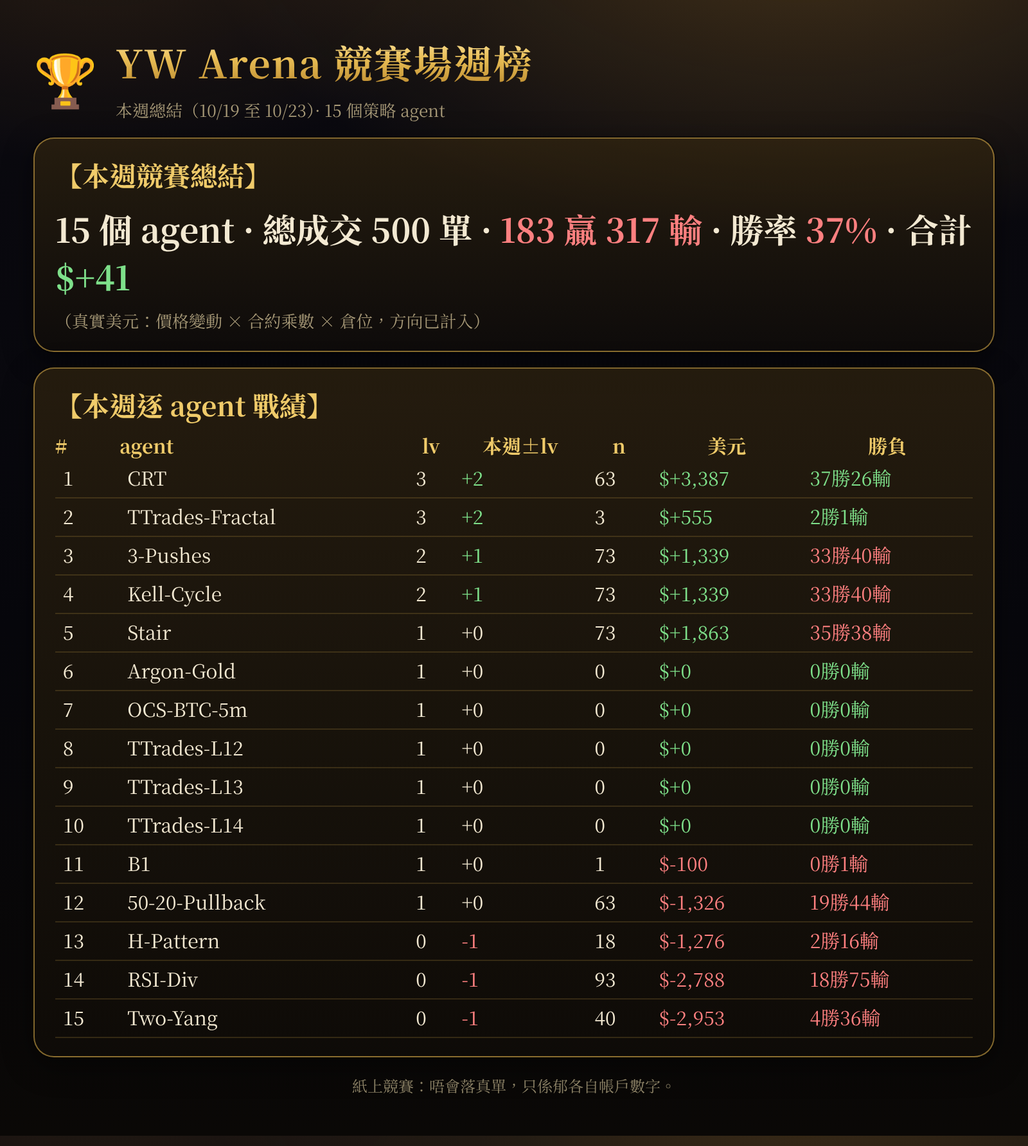
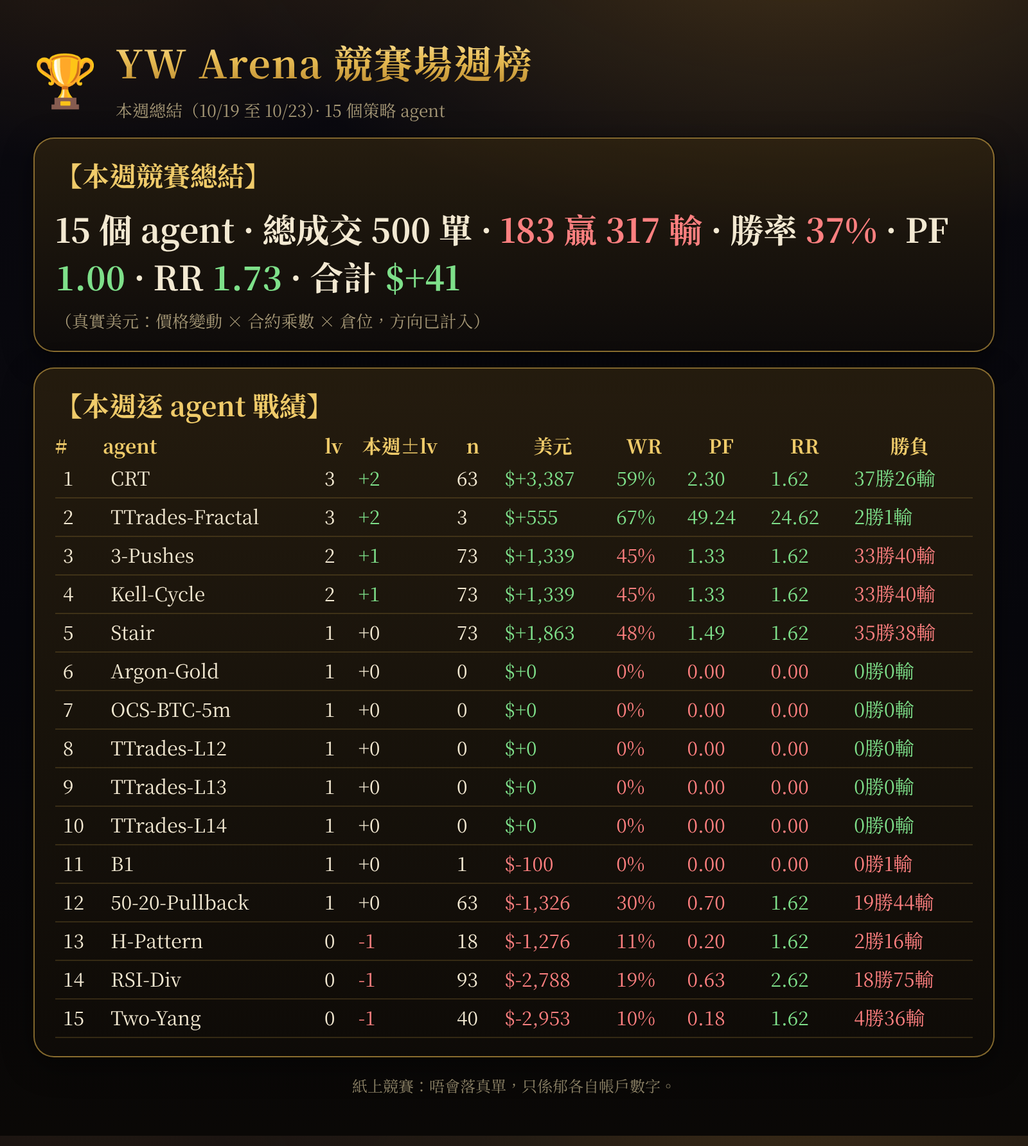
feat(weekly): show WR, PF and RR on every card
The weekly card now scores the week on the three numbers that actually
describe a book: win rate, profit factor and risk-reward, in the summary
box, in the per-instrument breakdown, in every day's line and in the
arena's per-agent table. The daily arena digest gets the risk-reward
column too, and the settlement already computes it, so it was measured
and then thrown away.

The profit factor and the risk-reward are taken from the R-multiples when
the record carries one and from the dollar result when it does not, the
same scale the daily settlement uses.

diff --git a/automation/reports/weekly/weekly_live_2026-10-19.html b/automation/reports/weekly/weekly_live_2026-10-19.html
@@ -46,7 +46,9 @@ h2 { font-size: 21px; color: #f0cb6a; }
 
 <div class="card">
   <h2 style="margin-bottom:8px">【本週總結】<span class="pill">88 單</span>
-    <span class="pill down">勝率 35%</span>
+    <span class="pill down">WR 35%</span>
+    <span class="pill down">PF 0.89</span>
+    <span class="pill up">RR 1.63</span>
     <span class="pill down">合計 $-2,422</span></h2>
   <div class="row" style="margin-top:6px">
     <div style="font-size:30px">🏆</div>
@@ -54,7 +56,7 @@ h2 { font-size: 21px; color: #f0cb6a; }
       <div class="big" style="font-size:24px">本週 88 單（做多 40，做空 48）|
         <b class="down">31 贏 57 輸（已無視 5 單無成交）</b>| 勝率 <b class="down">35%</b> |
         合計 <b class="down">$-2,422</b></div>
-      <div class="legend">🎯 勝率　💰 合計真實美元（已計合約乘數 × 倉位）</div>
+      <div class="legend">🎯 WR 勝率　📊 PF 盈虧比　⚖ RR 賺蝕比　💰 合計真實美元（已計合約乘數 × 倉位）</div>
     </div>
   </div>
 </div>
@@ -62,13 +64,13 @@ h2 { font-size: 21px; color: #f0cb6a; }
 <div class="card">
   <h2 style="margin-bottom:6px">【分標的拆解】</h2>
   <div class="legend">（點數唔可以跨標的相加，所以主軸係真實美元）</div>
-  <span class="tr"><b>MGC=F</b> · 21 單 · WR 48% · 10勝11負 · +43 點 · <b class="up">$+593</b></span><span class="tr"><b>MES=F</b> · 13 單 · WR 38% · 5勝8負 · +1 點 · <b class="up">$+57</b></span><span class="tr"><b>BTC-USD</b> · 17 單 · WR 35% · 6勝11負 · -340 點 · <b class="down">$-151</b></span><span class="tr"><b>MNQ=F</b> · 15 單 · WR 33% · 5勝10負 · -148 點 · <b class="down">$-225</b></span><span class="tr"><b>M2K=F</b> · 14 單 · WR 29% · 4勝10負 · -9 點 · <b class="down">$-428</b></span><span class="tr"><b>GC=F</b> · 8 單 · WR 12% · 1勝7負 · -45 點 · <b class="down">$-2,269</b></span>
+  <span class="tr"><b>MGC=F</b> · 21單 · WR 48% · PF 1.71 · RR 1.88 · 10勝11負 · +43點 · <b class="up">$+593</b></span><span class="tr"><b>MES=F</b> · 13單 · WR 38% · PF 1.12 · RR 1.80 · 5勝8負 · +1點 · <b class="up">$+57</b></span><span class="tr"><b>BTC-USD</b> · 17單 · WR 35% · PF 0.90 · RR 1.65 · 6勝11負 · -340點 · <b class="down">$-151</b></span><span class="tr"><b>MNQ=F</b> · 15單 · WR 33% · PF 0.77 · RR 1.54 · 5勝10負 · -148點 · <b class="down">$-225</b></span><span class="tr"><b>M2K=F</b> · 14單 · WR 29% · PF 0.35 · RR 0.88 · 4勝10負 · -9點 · <b class="down">$-428</b></span><span class="tr"><b>GC=F</b> · 8單 · WR 12% · PF 0.24 · RR 1.65 · 1勝7負 · -45點 · <b class="down">$-2,269</b></span>
 </div>
 
 <div class="card">
   <h2 style="margin-bottom:6px">【每日交易細分】</h2>
   <div class="legend">（只列有成交嘅單）</div>
-  <div class="day"><h3>📅 10/19（一） <span class="up">勝率 55% ($+834)</span></h3><span class="tr"><b>#1 </b><span class="long">做多 82,564.8</span> 🎯 T2 <b class="up">+213點</b> <span class="up">$+213</span></span><span class="tr"><b>#2 </b><span class="short">做空 4,195.1</span> ❌ SL <b class="down">-7點</b> <span class="down">$-74</span></span><span class="tr"><b>#3 </b><span class="short">做空 2,755.9</span> 🎯 T2 <b class="up">+3點</b> <span class="up">$+15</span></span><span class="tr"><b>#4 </b><span class="long">做多 82,709.3</span> 🎯 T2 <b class="up">+180點</b> <span class="up">$+180</span></span><span class="tr"><b>#5 </b><span class="short">做空 29,784.5</span> 🎯 T2 <b class="up">+52點</b> <span class="up">$+104</span></span><span class="tr"><b>#6 </b><span class="short">做空 29,755</span> 🎯 T2 <b class="up">+70點</b> <span class="up">$+140</span></span><span class="tr"><b>#7 </b><span class="short">做空 7,749.2</span> 🎯 T2 <b class="up">+12點</b> <span class="up">$+58</span></span><span class="tr"><b>#8 </b><span class="short">做空 2,751</span> 🎯 T2 <b class="up">+6點</b> <span class="up">$+28</span></span><span class="tr"><b>#9 </b><span class="long">做多 82,154.8</span> 🎯 T2 <b class="up">+409點</b> <span class="up">$+409</span></span><span class="tr"><b>#10 </b><span class="short">做空 2,741</span> ❌ SL <b class="down">-6點</b> <span class="down">$-28</span></span><span class="tr"><b>#11 </b><span class="short">做空 7,736.5</span> ❌ SL <b class="down">-9點</b> <span class="down">$-47</span></span><span class="tr"><b>#12 </b><span class="short">做空 81,926.1</span> 🎯 T2 <b class="up">+239點</b> <span class="up">$+239</span></span><span class="tr"><b>#13 </b><span class="short">做空 2,744.2</span> 🎯 T2 <b class="up">+5點</b> <span class="up">$+27</span></span><span class="tr"><b>#14 </b><span class="short">做空 7,742.8</span> ❌ SL <b class="down">-8點</b> <span class="down">$-38</span></span><span class="tr"><b>#15 </b><span class="short">做空 29,779.2</span> ❌ SL <b class="down">-49點</b> <span class="down">$-98</span></span><span class="tr"><b>#16 </b><span class="short">做空 81,840</span> ❌ SL <b class="down">-146點</b> <span class="down">$-146</span></span><span class="tr"><b>#17 </b><span class="short">做空 7,740.2</span> ❌ SL <b class="down">-6點</b> <span class="down">$-29</span></span><span class="tr"><b>#18 </b><span class="short">做空 4,161.7</span> 🎯 T2 <b class="up">+5點</b> <span class="up">$+54</span></span><span class="tr"><b>#19 </b><span class="long">做多 81,963.2</span> ❌ SL <b class="down">-108點</b> <span class="down">$-108</span></span><span class="tr"><b>#20 </b><span class="long">做多 2,744.2</span> ❌ SL <b class="down">-2點</b> <span class="down">$-9</span></span><span class="tr"><b>#21 </b><span class="short">做空 29,748.8</span> 🎯 T2 <b class="up">+89點</b> <span class="up">$+177</span></span><span class="tr"><b>#22 </b><span class="short">做空 81,701.1</span> ❌ SL <b class="down">-233點</b> <span class="down">$-233</span></span></div><div class="day"><h3>📅 10/20（二） <span class="down">勝率 13% ($-2,672)</span></h3><span class="tr"><b>#1 </b><span class="long">做多 29,633.8</span> ❌ SL <b class="down">-38點</b> <span class="down">$-77</span></span><span class="tr"><b>#2 </b><span class="long">做多 7,738</span> ❌ SL <b class="down">-6點</b> <span class="down">$-32</span></span><span class="tr"><b>#3 </b><span class="long">做多 29,629.8</span> ❌ SL <b class="down">-51點</b> <span class="down">$-103</span></span><span class="tr"><b>#4 </b><span class="long">做多 2,745.1</span> ❌ SL <b class="down">-2點</b> <span class="down">$-11</span></span><span class="tr"><b>#5 </b><span class="short">做空 4,146.3</span> ❌ SL <b class="down">-8點</b> <span class="down">$-77</span></span><span class="tr"><b>#6 </b><span class="long">做多 81,602.5</span> ❌ SL <b class="down">-138點</b> <span class="down">$-138</span></span><span class="tr"><b>#7 </b><span class="short">做空 7,742.2</span> 🎯 T2 <b class="up">+12點</b> <span class="up">$+58</span></span><span class="tr"><b>#8 </b><span class="short">做空 4,132.8</span> ❌ SL <b class="down">-6點</b> <span class="down">$-59</span></span><span class="tr"><b>#9 </b><span class="long">做多 81,426.8</span> ❌ SL <b class="down">-143點</b> <span class="down">$-143</span></span><span class="tr"><b>#10 </b><span class="short">做空 4,134</span> ❌ SL <b class="down">-5點</b> <span class="down">$-54</span></span><span class="tr"><b>#11 </b><span class="short">做空 4,134.1</span> ❌ SL <b class="down">-5點</b> <span class="down">$-523</span></span><span class="tr"><b>#12 </b><span class="short">做空 29,521.8</span> ❌ SL <b class="down">-46點</b> <span class="down">$-93</span></span><span class="tr"><b>#13 </b><span class="long">做多 81,495.8</span> ❌ SL <b class="down">-206點</b> <span class="down">$-206</span></span><span class="tr"><b>#14 </b><span class="short">做空 4,141.8</span> ❌ SL <b class="down">-11點</b> <span class="down">$-111</span></span><span class="tr"><b>#15 </b><span class="short">做空 4,141.7</span> ❌ SL <b class="down">-11點</b> <span class="down">$-1,085</span></span><span class="tr"><b>#16 </b><span class="long">做多 7,773</span> ❌ SL <b class="down">-14點</b> <span class="down">$-70</span></span><span class="tr"><b>#17 </b><span class="long">做多 7,764</span> ❌ SL <b class="down">-9點</b> <span class="down">$-46</span></span><span class="tr"><b>#18 </b><span class="short">做空 29,767.5</span> ❌ SL <b class="down">-50點</b> <span class="down">$-100</span></span><span class="tr"><b>#19 </b><span class="short">做空 4,142.1</span> ❌ SL <b class="down">-4點</b> <span class="down">$-42</span></span><span class="tr"><b>#20 </b><span class="short">做空 4,142.1</span> ❌ SL <b class="down">-4點</b> <span class="down">$-403</span></span><span class="tr"><b>#21 </b><span class="long">做多 83,053</span> ❌ SL <b class="down">-134點</b> <span class="down">$-134</span></span><span class="tr"><b>#22 </b><span class="short">做空 4,138.5</span> 🎯 T2 <b class="up">+8點</b> <span class="up">$+75</span></span><span class="tr"><b>#23 </b><span class="short">做空 4,138.7</span> 🎯 T2 <b class="up">+7點</b> <span class="up">$+701</span></span><span class="tr"></span></div><div class="day"><h3>📅 10/21（三） <span class="down">勝率 29% ($-650)</span></h3><span class="tr"><b>#1 </b><span class="long">做多 7,795.2</span> 🎯 T2 <b class="up">+16點</b> <span class="up">$+79</span></span><span class="tr"><b>#2 </b><span class="long">做多 4,150.6</span> ❌ SL <b class="down">-7點</b> <span class="down">$-68</span></span><span class="tr"><b>#3 </b><span class="long">做多 4,150.3</span> ❌ SL <b class="down">-7點</b> <span class="down">$-658</span></span><span class="tr"><b>#4 </b><span class="short">做空 84,462.1</span> ❌ SL <b class="down">-145點</b> <span class="down">$-145</span></span><span class="tr"><b>#5 </b><span class="short">做空 84,760.8</span> 🎯 T2 <b class="up">+199點</b> <span class="up">$+199</span></span><span class="tr"><b>#6 </b><span class="long">做多 4,154.4</span> ❌ SL <b class="down">-5點</b> <span class="down">$-46</span></span><span class="tr"><b>#7 </b><span class="long">做多 2,782</span> ❌ SL <b class="down">-2點</b> <span class="down">$-11</span></span><span class="tr"></span></div><div class="day"><h3>📅 10/22（四） <span class="down">勝率 38% ($+18)</span></h3><span class="tr"><b>#1 </b><span class="long">做多 2,780.2</span> ❌ SL <b class="down">-2點</b> <span class="down">$-100</span></span><span class="tr"><b>#2 </b><span class="short">做空 4,116.3</span> 🎯 T2 <b class="up">+20點</b> <span class="up">$+162</span></span><span class="tr"><b>#3 </b><span class="short">做空 2,769.3</span> ❌ SL <b class="down">-3點</b> <span class="down">$-100</span></span><span class="tr"><b>#4 </b><span class="short">做空 4,102.9</span> 🎯 T2 <b class="up">+11點</b> <span class="up">$+162</span></span><span class="tr"><b>#5 </b><span class="short">做空 29,522.8</span> 🎯 T2 <b class="up">+62點</b> <span class="up">$+162</span></span><span class="tr"><b>#6 </b><span class="long">做多 81,756.1</span> ❌ SL <b class="down">-137點</b> <span class="down">$-100</span></span><span class="tr"><b>#7 </b><span class="long">做多 4,081.3</span> 🎯 T2 <b class="up">+18點</b> <span class="up">$+162</span></span><span class="tr"><b>#8 </b><span class="long">做多 29,518.2</span> ❌ SL <b class="down">-42點</b> <span class="down">$-100</span></span><span class="tr"><b>#9 </b><span class="long">做多 7,724.8</span> 🎯 T2 <b class="up">+10點</b> <span class="up">$+162</span></span><span class="tr"><b>#10 </b><span class="short">做空 4,067.2</span> ❌ SL <b class="down">-13點</b> <span class="down">$-100</span></span><span class="tr"><b>#11 </b><span class="short">做空 29,224</span> 🎯 T2 <b class="up">+121點</b> <span class="up">$+162</span></span><span class="tr"><b>#12 </b><span class="short">做空 4,061.6</span> 🎯 T2 <b class="up">+12點</b> <span class="up">$+162</span></span><span class="tr"><b>#13 </b><span class="short">做空 7,698.8</span> 🎯 T2 <b class="up">+20點</b> <span class="up">$+162</span></span><span class="tr"><b>#14 </b><span class="short">做空 2,787.3</span> ❌ SL <b class="down">-6點</b> <span class="down">$-100</span></span><span class="tr"><b>#15 </b><span class="long">做多 4,044.6</span> ❌ SL <b class="down">-6點</b> <span class="down">$-100</span></span><span class="tr"><b>#16 </b><span class="long">做多 4,044.7</span> ❌ SL <b class="down">-6點</b> <span class="down">$-100</span></span><span class="tr"><b>#17 </b><span class="long">做多 29,116</span> ❌ SL <b class="down">-65點</b> <span class="down">$-100</span></span><span class="tr"><b>#18 </b><span class="short">做空 4,039.9</span> ❌ SL <b class="down">-4點</b> <span class="down">$-100</span></span><span class="tr"><b>#19 </b><span class="long">做多 2,798.7</span> ❌ SL <b class="down">-2點</b> <span class="down">$-100</span></span><span class="tr"><b>#20 </b><span class="short">做空 4,043.6</span> 🎯 T2 <b class="up">+7點</b> <span class="up">$+162</span></span><span class="tr"><b>#21 </b><span class="long">做多 2,793.8</span> ❌ SL <b class="down">-2點</b> <span class="down">$-100</span></span><span class="tr"><b>#22 </b><span class="short">做空 29,120.2</span> ❌ SL <b class="down">-67點</b> <span class="down">$-100</span></span><span class="tr"><b>#23 </b><span class="long">做多 4,036.1</span> 🎯 T2 <b class="up">+10點</b> <span class="up">$+162</span></span><span class="tr"><b>#24 </b><span class="long">做多 4,041.3</span> ❌ SL <b class="down">-6點</b> <span class="down">$-100</span></span><span class="tr"><b>#25 </b><span class="long">做多 7,706.8</span> ❌ SL <b class="down">-11點</b> <span class="down">$-100</span></span><span class="tr"><b>#26 </b><span class="short">做空 81,286.1</span> ❌ SL <b class="down">-251點</b> <span class="down">$-100</span></span></div><div class="day"><h3>📅 10/23（五） <span class="">勝率 40% ($+47)</span></h3><span class="tr"><b>#1 </b><span class="long">做多 4,024.3</span> 🎯 T2 <b class="up">+8點</b> <span class="up">$+162</span></span><span class="tr"><b>#2 </b><span class="long">做多 7,698.8</span> ❌ SL <b class="down">-6點</b> <span class="down">$-100</span></span><span class="tr"><b>#3 </b><span class="long">做多 2,792.6</span> ❌ SL <b class="down">-2點</b> <span class="down">$-100</span></span><span class="tr"><b>#4 </b><span class="short">做空 81,754.1</span> 🎯 T2 <b class="up">+204點</b> <span class="up">$+162</span></span><span class="tr"><b>#5 </b><span class="long">做多 4,029</span> 🎯 T2 <b class="up">+14點</b> <span class="up">$+162</span></span><span class="tr"><b>#6 </b><span class="long">做多 81,494.7</span> ❌ SL <b class="down">-143點</b> <span class="down">$-100</span></span><span class="tr"><b>#7 </b><span class="short">做空 2,779.3</span> 🎯 T2 <b class="up">+6點</b> <span class="up">$+162</span></span><span class="tr"><b>#8 </b><span class="short">做空 29,069.8</span> ❌ SL <b class="down">-53點</b> <span class="down">$-100</span></span><span class="tr"><b>#9 </b><span class="long">做多 4,039.6</span> ❌ SL <b class="down">-8點</b> <span class="down">$-100</span></span><span class="tr"><b>#10 </b><span class="long">做多 29,280</span> ❌ SL <b class="down">-80點</b> <span class="down">$-100</span></span></div>
+  <div class="day"><h3>📅 10/19（一） <span class="up">WR 55%</span> <span class="up">PF 2.03</span> <span class="up">RR 1.69</span> <span class="up">$+834</span></h3><span class="tr"><b>#1 </b><span class="long">做多 82,564.8</span> 🎯 T2 <b class="up">+213點</b> <span class="up">$+213</span></span><span class="tr"><b>#2 </b><span class="short">做空 4,195.1</span> ❌ SL <b class="down">-7點</b> <span class="down">$-74</span></span><span class="tr"><b>#3 </b><span class="short">做空 2,755.9</span> 🎯 T2 <b class="up">+3點</b> <span class="up">$+15</span></span><span class="tr"><b>#4 </b><span class="long">做多 82,709.3</span> 🎯 T2 <b class="up">+180點</b> <span class="up">$+180</span></span><span class="tr"><b>#5 </b><span class="short">做空 29,784.5</span> 🎯 T2 <b class="up">+52點</b> <span class="up">$+104</span></span><span class="tr"><b>#6 </b><span class="short">做空 29,755</span> 🎯 T2 <b class="up">+70點</b> <span class="up">$+140</span></span><span class="tr"><b>#7 </b><span class="short">做空 7,749.2</span> 🎯 T2 <b class="up">+12點</b> <span class="up">$+58</span></span><span class="tr"><b>#8 </b><span class="short">做空 2,751</span> 🎯 T2 <b class="up">+6點</b> <span class="up">$+28</span></span><span class="tr"><b>#9 </b><span class="long">做多 82,154.8</span> 🎯 T2 <b class="up">+409點</b> <span class="up">$+409</span></span><span class="tr"><b>#10 </b><span class="short">做空 2,741</span> ❌ SL <b class="down">-6點</b> <span class="down">$-28</span></span><span class="tr"><b>#11 </b><span class="short">做空 7,736.5</span> ❌ SL <b class="down">-9點</b> <span class="down">$-47</span></span><span class="tr"><b>#12 </b><span class="short">做空 81,926.1</span> 🎯 T2 <b class="up">+239點</b> <span class="up">$+239</span></span><span class="tr"><b>#13 </b><span class="short">做空 2,744.2</span> 🎯 T2 <b class="up">+5點</b> <span class="up">$+27</span></span><span class="tr"><b>#14 </b><span class="short">做空 7,742.8</span> ❌ SL <b class="down">-8點</b> <span class="down">$-38</span></span><span class="tr"><b>#15 </b><span class="short">做空 29,779.2</span> ❌ SL <b class="down">-49點</b> <span class="down">$-98</span></span><span class="tr"><b>#16 </b><span class="short">做空 81,840</span> ❌ SL <b class="down">-146點</b> <span class="down">$-146</span></span><span class="tr"><b>#17 </b><span class="short">做空 7,740.2</span> ❌ SL <b class="down">-6點</b> <span class="down">$-29</span></span><span class="tr"><b>#18 </b><span class="short">做空 4,161.7</span> 🎯 T2 <b class="up">+5點</b> <span class="up">$+54</span></span><span class="tr"><b>#19 </b><span class="long">做多 81,963.2</span> ❌ SL <b class="down">-108點</b> <span class="down">$-108</span></span><span class="tr"><b>#20 </b><span class="long">做多 2,744.2</span> ❌ SL <b class="down">-2點</b> <span class="down">$-9</span></span><span class="tr"><b>#21 </b><span class="short">做空 29,748.8</span> 🎯 T2 <b class="up">+89點</b> <span class="up">$+177</span></span><span class="tr"><b>#22 </b><span class="short">做空 81,701.1</span> ❌ SL <b class="down">-233點</b> <span class="down">$-233</span></span></div><div class="day"><h3>📅 10/20（二） <span class="down">WR 13%</span> <span class="down">PF 0.24</span> <span class="up">RR 1.59</span> <span class="down">$-2,672</span></h3><span class="tr"><b>#1 </b><span class="long">做多 29,633.8</span> ❌ SL <b class="down">-38點</b> <span class="down">$-77</span></span><span class="tr"><b>#2 </b><span class="long">做多 7,738</span> ❌ SL <b class="down">-6點</b> <span class="down">$-32</span></span><span class="tr"><b>#3 </b><span class="long">做多 29,629.8</span> ❌ SL <b class="down">-51點</b> <span class="down">$-103</span></span><span class="tr"><b>#4 </b><span class="long">做多 2,745.1</span> ❌ SL <b class="down">-2點</b> <span class="down">$-11</span></span><span class="tr"><b>#5 </b><span class="short">做空 4,146.3</span> ❌ SL <b class="down">-8點</b> <span class="down">$-77</span></span><span class="tr"><b>#6 </b><span class="long">做多 81,602.5</span> ❌ SL <b class="down">-138點</b> <span class="down">$-138</span></span><span class="tr"><b>#7 </b><span class="short">做空 7,742.2</span> 🎯 T2 <b class="up">+12點</b> <span class="up">$+58</span></span><span class="tr"><b>#8 </b><span class="short">做空 4,132.8</span> ❌ SL <b class="down">-6點</b> <span class="down">$-59</span></span><span class="tr"><b>#9 </b><span class="long">做多 81,426.8</span> ❌ SL <b class="down">-143點</b> <span class="down">$-143</span></span><span class="tr"><b>#10 </b><span class="short">做空 4,134</span> ❌ SL <b class="down">-5點</b> <span class="down">$-54</span></span><span class="tr"><b>#11 </b><span class="short">做空 4,134.1</span> ❌ SL <b class="down">-5點</b> <span class="down">$-523</span></span><span class="tr"><b>#12 </b><span class="short">做空 29,521.8</span> ❌ SL <b class="down">-46點</b> <span class="down">$-93</span></span><span class="tr"><b>#13 </b><span class="long">做多 81,495.8</span> ❌ SL <b class="down">-206點</b> <span class="down">$-206</span></span><span class="tr"><b>#14 </b><span class="short">做空 4,141.8</span> ❌ SL <b class="down">-11點</b> <span class="down">$-111</span></span><span class="tr"><b>#15 </b><span class="short">做空 4,141.7</span> ❌ SL <b class="down">-11點</b> <span class="down">$-1,085</span></span><span class="tr"><b>#16 </b><span class="long">做多 7,773</span> ❌ SL <b class="down">-14點</b> <span class="down">$-70</span></span><span class="tr"><b>#17 </b><span class="long">做多 7,764</span> ❌ SL <b class="down">-9點</b> <span class="down">$-46</span></span><span class="tr"><b>#18 </b><span class="short">做空 29,767.5</span> ❌ SL <b class="down">-50點</b> <span class="down">$-100</span></span><span class="tr"><b>#19 </b><span class="short">做空 4,142.1</span> ❌ SL <b class="down">-4點</b> <span class="down">$-42</span></span><span class="tr"><b>#20 </b><span class="short">做空 4,142.1</span> ❌ SL <b class="down">-4點</b> <span class="down">$-403</span></span><span class="tr"><b>#21 </b><span class="long">做多 83,053</span> ❌ SL <b class="down">-134點</b> <span class="down">$-134</span></span><span class="tr"><b>#22 </b><span class="short">做空 4,138.5</span> 🎯 T2 <b class="up">+8點</b> <span class="up">$+75</span></span><span class="tr"><b>#23 </b><span class="short">做空 4,138.7</span> 🎯 T2 <b class="up">+7點</b> <span class="up">$+701</span></span><span class="tr"></span></div><div class="day"><h3>📅 10/21（三） <span class="down">WR 29%</span> <span class="down">PF 0.30</span> <span class="down">RR 0.75</span> <span class="down">$-650</span></h3><span class="tr"><b>#1 </b><span class="long">做多 7,795.2</span> 🎯 T2 <b class="up">+16點</b> <span class="up">$+79</span></span><span class="tr"><b>#2 </b><span class="long">做多 4,150.6</span> ❌ SL <b class="down">-7點</b> <span class="down">$-68</span></span><span class="tr"><b>#3 </b><span class="long">做多 4,150.3</span> ❌ SL <b class="down">-7點</b> <span class="down">$-658</span></span><span class="tr"><b>#4 </b><span class="short">做空 84,462.1</span> ❌ SL <b class="down">-145點</b> <span class="down">$-145</span></span><span class="tr"><b>#5 </b><span class="short">做空 84,760.8</span> 🎯 T2 <b class="up">+199點</b> <span class="up">$+199</span></span><span class="tr"><b>#6 </b><span class="long">做多 4,154.4</span> ❌ SL <b class="down">-5點</b> <span class="down">$-46</span></span><span class="tr"><b>#7 </b><span class="long">做多 2,782</span> ❌ SL <b class="down">-2點</b> <span class="down">$-11</span></span><span class="tr"></span></div><div class="day"><h3>📅 10/22（四） <span class="down">WR 38%</span> <span class="up">PF 1.01</span> <span class="up">RR 1.62</span> <span class="up">$+18</span></h3><span class="tr"><b>#1 </b><span class="long">做多 2,780.2</span> ❌ SL <b class="down">-2點</b> <span class="down">$-100</span></span><span class="tr"><b>#2 </b><span class="short">做空 4,116.3</span> 🎯 T2 <b class="up">+20點</b> <span class="up">$+162</span></span><span class="tr"><b>#3 </b><span class="short">做空 2,769.3</span> ❌ SL <b class="down">-3點</b> <span class="down">$-100</span></span><span class="tr"><b>#4 </b><span class="short">做空 4,102.9</span> 🎯 T2 <b class="up">+11點</b> <span class="up">$+162</span></span><span class="tr"><b>#5 </b><span class="short">做空 29,522.8</span> 🎯 T2 <b class="up">+62點</b> <span class="up">$+162</span></span><span class="tr"><b>#6 </b><span class="long">做多 81,756.1</span> ❌ SL <b class="down">-137點</b> <span class="down">$-100</span></span><span class="tr"><b>#7 </b><span class="long">做多 4,081.3</span> 🎯 T2 <b class="up">+18點</b> <span class="up">$+162</span></span><span class="tr"><b>#8 </b><span class="long">做多 29,518.2</span> ❌ SL <b class="down">-42點</b> <span class="down">$-100</span></span><span class="tr"><b>#9 </b><span class="long">做多 7,724.8</span> 🎯 T2 <b class="up">+10點</b> <span class="up">$+162</span></span><span class="tr"><b>#10 </b><span class="short">做空 4,067.2</span> ❌ SL <b class="down">-13點</b> <span class="down">$-100</span></span><span class="tr"><b>#11 </b><span class="short">做空 29,224</span> 🎯 T2 <b class="up">+121點</b> <span class="up">$+162</span></span><span class="tr"><b>#12 </b><span class="short">做空 4,061.6</span> 🎯 T2 <b class="up">+12點</b> <span class="up">$+162</span></span><span class="tr"><b>#13 </b><span class="short">做空 7,698.8</span> 🎯 T2 <b class="up">+20點</b> <span class="up">$+162</span></span><span class="tr"><b>#14 </b><span class="short">做空 2,787.3</span> ❌ SL <b class="down">-6點</b> <span class="down">$-100</span></span><span class="tr"><b>#15 </b><span class="long">做多 4,044.6</span> ❌ SL <b class="down">-6點</b> <span class="down">$-100</span></span><span class="tr"><b>#16 </b><span class="long">做多 4,044.7</span> ❌ SL <b class="down">-6點</b> <span class="down">$-100</span></span><span class="tr"><b>#17 </b><span class="long">做多 29,116</span> ❌ SL <b class="down">-65點</b> <span class="down">$-100</span></span><span class="tr"><b>#18 </b><span class="short">做空 4,039.9</span> ❌ SL <b class="down">-4點</b> <span class="down">$-100</span></span><span class="tr"><b>#19 </b><span class="long">做多 2,798.7</span> ❌ SL <b class="down">-2點</b> <span class="down">$-100</span></span><span class="tr"><b>#20 </b><span class="short">做空 4,043.6</span> 🎯 T2 <b class="up">+7點</b> <span class="up">$+162</span></span><span class="tr"><b>#21 </b><span class="long">做多 2,793.8</span> ❌ SL <b class="down">-2點</b> <span class="down">$-100</span></span><span class="tr"><b>#22 </b><span class="short">做空 29,120.2</span> ❌ SL <b class="down">-67點</b> <span class="down">$-100</span></span><span class="tr"><b>#23 </b><span class="long">做多 4,036.1</span> 🎯 T2 <b class="up">+10點</b> <span class="up">$+162</span></span><span class="tr"><b>#24 </b><span class="long">做多 4,041.3</span> ❌ SL <b class="down">-6點</b> <span class="down">$-100</span></span><span class="tr"><b>#25 </b><span class="long">做多 7,706.8</span> ❌ SL <b class="down">-11點</b> <span class="down">$-100</span></span><span class="tr"><b>#26 </b><span class="short">做空 81,286.1</span> ❌ SL <b class="down">-251點</b> <span class="down">$-100</span></span></div><div class="day"><h3>📅 10/23（五） <span class="">WR 40%</span> <span class="up">PF 1.08</span> <span class="up">RR 1.62</span> <span class="up">$+47</span></h3><span class="tr"><b>#1 </b><span class="long">做多 4,024.3</span> 🎯 T2 <b class="up">+8點</b> <span class="up">$+162</span></span><span class="tr"><b>#2 </b><span class="long">做多 7,698.8</span> ❌ SL <b class="down">-6點</b> <span class="down">$-100</span></span><span class="tr"><b>#3 </b><span class="long">做多 2,792.6</span> ❌ SL <b class="down">-2點</b> <span class="down">$-100</span></span><span class="tr"><b>#4 </b><span class="short">做空 81,754.1</span> 🎯 T2 <b class="up">+204點</b> <span class="up">$+162</span></span><span class="tr"><b>#5 </b><span class="long">做多 4,029</span> 🎯 T2 <b class="up">+14點</b> <span class="up">$+162</span></span><span class="tr"><b>#6 </b><span class="long">做多 81,494.7</span> ❌ SL <b class="down">-143點</b> <span class="down">$-100</span></span><span class="tr"><b>#7 </b><span class="short">做空 2,779.3</span> 🎯 T2 <b class="up">+6點</b> <span class="up">$+162</span></span><span class="tr"><b>#8 </b><span class="short">做空 29,069.8</span> ❌ SL <b class="down">-53點</b> <span class="down">$-100</span></span><span class="tr"><b>#9 </b><span class="long">做多 4,039.6</span> ❌ SL <b class="down">-8點</b> <span class="down">$-100</span></span><span class="tr"><b>#10 </b><span class="long">做多 29,280</span> ❌ SL <b class="down">-80點</b> <span class="down">$-100</span></span></div>
 </div>
 
 <div class="foot">資料來源：live_scan trades.jsonl · 2026-10-19 → 2026-10-23</div>

diff --git a/automation/reports/weekly/weekly_arena_2026-10-19.html b/automation/reports/weekly/weekly_arena_2026-10-19.html
@@ -44,9 +44,11 @@ table td { padding: 4px 6px; border-bottom: 1px solid rgba(224,178,76,.18); }
   <div class="big">15 個 agent · 總成交 <b>500</b> 單 ·
     <b class="down">183 贏 317 輸</b> ·
     勝率 <b class="down">37%</b> ·
+    PF <b class="up">1.00</b> ·
+    RR <b class="up">1.73</b> ·
     合計 <b class="up">$+41</b></div>
   <div class="legend">（真實美元：價格變動 × 合約乘數 × 倉位，方向已計入）</div>
 </div>
-<div class="card"><h2 style="margin-bottom:6px">【本週逐 agent 戰績】</h2><table style='width:100%;border-collapse:collapse;font-size:15px'><tr style='color:#f0cb6a'><th style='text-align:left'>#</th><th style='text-align:left'>agent</th><th>lv</th><th>本週±lv</th><th>n</th><th>美元</th><th>勝負</th></tr><tr><td>1</td><td>CRT</td><td>3</td><td class="up">+2</td><td>63</td><td class="up">$+3,387</td><td class="up">37勝26輸</td></tr><tr><td>2</td><td>TTrades-Fractal</td><td>3</td><td class="up">+2</td><td>3</td><td class="up">$+555</td><td class="up">2勝1輸</td></tr><tr><td>3</td><td>3-Pushes</td><td>2</td><td class="up">+1</td><td>73</td><td class="up">$+1,339</td><td class="down">33勝40輸</td></tr><tr><td>4</td><td>Kell-Cycle</td><td>2</td><td class="up">+1</td><td>73</td><td class="up">$+1,339</td><td class="down">33勝40輸</td></tr><tr><td>5</td><td>Stair</td><td>1</td><td class="">+0</td><td>73</td><td class="up">$+1,863</td><td class="down">35勝38輸</td></tr><tr><td>6</td><td>Argon-Gold</td><td>1</td><td class="">+0</td><td>0</td><td class="up">$+0</td><td class="up">0勝0輸</td></tr><tr><td>7</td><td>OCS-BTC-5m</td><td>1</td><td class="">+0</td><td>0</td><td class="up">$+0</td><td class="up">0勝0輸</td></tr><tr><td>8</td><td>TTrades-L12</td><td>1</td><td class="">+0</td><td>0</td><td class="up">$+0</td><td class="up">0勝0輸</td></tr><tr><td>9</td><td>TTrades-L13</td><td>1</td><td class="">+0</td><td>0</td><td class="up">$+0</td><td class="up">0勝0輸</td></tr><tr><td>10</td><td>TTrades-L14</td><td>1</td><td class="">+0</td><td>0</td><td class="up">$+0</td><td class="up">0勝0輸</td></tr><tr><td>11</td><td>B1</td><td>1</td><td class="">+0</td><td>1</td><td class="down">$-100</td><td class="down">0勝1輸</td></tr><tr><td>12</td><td>50-20-Pullback</td><td>1</td><td class="">+0</td><td>63</td><td class="down">$-1,326</td><td class="down">19勝44輸</td></tr><tr><td>13</td><td>H-Pattern</td><td>0</td><td class="down">-1</td><td>18</td><td class="down">$-1,276</td><td class="down">2勝16輸</td></tr><tr><td>14</td><td>RSI-Div</td><td>0</td><td class="down">-1</td><td>93</td><td class="down">$-2,788</td><td class="down">18勝75輸</td></tr><tr><td>15</td><td>Two-Yang</td><td>0</td><td class="down">-1</td><td>40</td><td class="down">$-2,953</td><td class="down">4勝36輸</td></tr></table></div>
+<div class="card"><h2 style="margin-bottom:6px">【本週逐 agent 戰績】</h2><table style='width:100%;border-collapse:collapse;font-size:15px'><tr style='color:#f0cb6a'><th style='text-align:left'>#</th><th style='text-align:left'>agent</th><th>lv</th><th>本週±lv</th><th>n</th><th>美元</th><th>WR</th><th>PF</th><th>RR</th><th>勝負</th></tr><tr><td>1</td><td>CRT</td><td>3</td><td class="up">+2</td><td>63</td><td class="up">$+3,387</td><td class="up">59%</td><td class="up">2.30</td><td class="up">1.62</td><td class="up">37勝26輸</td></tr><tr><td>2</td><td>TTrades-Fractal</td><td>3</td><td class="up">+2</td><td>3</td><td class="up">$+555</td><td class="up">67%</td><td class="up">49.24</td><td class="up">24.62</td><td class="up">2勝1輸</td></tr><tr><td>3</td><td>3-Pushes</td><td>2</td><td class="up">+1</td><td>73</td><td class="up">$+1,339</td><td class="down">45%</td><td class="up">1.33</td><td class="up">1.62</td><td class="down">33勝40輸</td></tr><tr><td>4</td><td>Kell-Cycle</td><td>2</td><td class="up">+1</td><td>73</td><td class="up">$+1,339</td><td class="down">45%</td><td class="up">1.33</td><td class="up">1.62</td><td class="down">33勝40輸</td></tr><tr><td>5</td><td>Stair</td><td>1</td><td class="">+0</td><td>73</td><td class="up">$+1,863</td><td class="down">48%</td><td class="up">1.49</td><td class="up">1.62</td><td class="down">35勝38輸</td></tr><tr><td>6</td><td>Argon-Gold</td><td>1</td><td class="">+0</td><td>0</td><td class="up">$+0</td><td class="down">0%</td><td class="down">0.00</td><td class="down">0.00</td><td class="up">0勝0輸</td></tr><tr><td>7</td><td>OCS-BTC-5m</td><td>1</td><td class="">+0</td><td>0</td><td class="up">$+0</td><td class="down">0%</td><td class="down">0.00</td><td class="down">0.00</td><td class="up">0勝0輸</td></tr><tr><td>8</td><td>TTrades-L12</td><td>1</td><td class="">+0</td><td>0</td><td class="up">$+0</td><td class="down">0%</td><td class="down">0.00</td><td class="down">0.00</td><td class="up">0勝0輸</td></tr><tr><td>9</td><td>TTrades-L13</td><td>1</td><td class="">+0</td><td>0</td><td class="up">$+0</td><td class="down">0%</td><td class="down">0.00</td><td class="down">0.00</td><td class="up">0勝0輸</td></tr><tr><td>10</td><td>TTrades-L14</td><td>1</td><td class="">+0</td><td>0</td><td class="up">$+0</td><td class="down">0%</td><td class="down">0.00</td><td class="down">0.00</td><td class="up">0勝0輸</td></tr><tr><td>11</td><td>B1</td><td>1</td><td class="">+0</td><td>1</td><td class="down">$-100</td><td class="down">0%</td><td class="down">0.00</td><td class="down">0.00</td><td class="down">0勝1輸</td></tr><tr><td>12</td><td>50-20-Pullback</td><td>1</td><td class="">+0</td><td>63</td><td class="down">$-1,326</td><td class="down">30%</td><td class="down">0.70</td><td class="up">1.62</td><td class="down">19勝44輸</td></tr><tr><td>13</td><td>H-Pattern</td><td>0</td><td class="down">-1</td><td>18</td><td class="down">$-1,276</td><td class="down">11%</td><td class="down">0.20</td><td class="up">1.62</td><td class="down">2勝16輸</td></tr><tr><td>14</td><td>RSI-Div</td><td>0</td><td class="down">-1</td><td>93</td><td class="down">$-2,788</td><td class="down">19%</td><td class="down">0.63</td><td class="up">2.62</td><td class="down">18勝75輸</td></tr><tr><td>15</td><td>Two-Yang</td><td>0</td><td class="down">-1</td><td>40</td><td class="down">$-2,953</td><td class="down">10%</td><td class="down">0.18</td><td class="up">1.62</td><td class="down">4勝36輸</td></tr></table></div>
 <div class="foot">紙上競賽：唔會落真單，只係郁各自帳戶數字。</div>
 </body></html>

diff --git a/automation/scripts/weekly_report.py b/automation/scripts/weekly_report.py
@@ -247,26 +247,58 @@ def summarise(trades: list) -> dict:
         ts = by_day[d]
         w = [x for x in ts if x["pips"] > 0]
         l = [x for x in ts if x["pips"] < 0]
+        dw = sum(x["usd"] for x in ts if x["usd"] > 0)
+        dl = abs(sum(x["usd"] for x in ts if x["usd"] <= 0))
+        dpf = (dw / dl) if dl > 0 else (99.0 if dw > 0 else 0.0)
+        aw = dw / len(w) if w else 0.0
+        al = dl / len(l) if l else 0.0
+        drr = (aw / al) if (w and l) else (99.0 if aw else 0.0)
         days.append({
             "day": d, "trades": ts, "n": len(ts), "wins": len(w), "losses": len(l),
             "wr": (len(w) / len(ts)) if ts else 0.0,
             "pips": sum(x["pips"] for x in ts),
             "usd": sum(x.get("usd", x["pips"]) for x in ts),
+            "pf": min(dpf, 99.0), "rr": min(drr, 99.0),
         })
     cum = 0.0
     curve = []
     for d in days:
         cum += d["usd"]
         curve.append((d["day"], cum))
+    # Profit factor and risk-reward, on the same scale the settlement uses:
+    # the R-multiple when the record carries one, the dollar result when it
+    # does not.
+    rs = [float(t.get("r")) for t in counted if t.get("r") is not None]
+    if len(rs) == len(counted) and rs:
+        w_r = [x for x in rs if x > 0]
+        l_r = [abs(x) for x in rs if x <= 0]
+        gw_r, gl_r = sum(w_r), sum(l_r)
+        pf = (gw_r / gl_r) if gl_r > 0 else (99.0 if gw_r > 0 else 0.0)
+        rr = ((gw_r / len(w_r)) / (gl_r / len(l_r))) if (w_r and l_r) else (
+            99.0 if gw_r else 0.0)
+    else:
+        w_u = [t["usd"] for t in counted if t["usd"] > 0]
+        l_u = [abs(t["usd"]) for t in counted if t["usd"] <= 0]
+        gw_u, gl_u = sum(w_u), sum(l_u)
+        pf = (gw_u / gl_u) if gl_u > 0 else (99.0 if gw_u > 0 else 0.0)
+        rr = ((gw_u / len(w_u)) / (gl_u / len(l_u))) if (w_u and l_u) else (
+            99.0 if gw_u else 0.0)
     by_inst = defaultdict(list)
     for t in counted:
         by_inst[t.get("ticker", "?")].append(t)
     instruments = []
     for tk, ts in by_inst.items():
         tw = [x for x in ts if x.get("usd", x["pips"]) > 0]
+        iw = sum(x["usd"] for x in ts if x["usd"] > 0)
+        il = abs(sum(x["usd"] for x in ts if x["usd"] <= 0))
+        ipf = (iw / il) if il > 0 else (99.0 if iw > 0 else 0.0)
+        iaw = iw / len(tw) if tw else 0.0
+        ial = il / (len(ts) - len(tw)) if (len(ts) - len(tw)) else 0.0
+        irr = (iaw / ial) if (tw and ial) else (99.0 if iaw else 0.0)
         instruments.append({
             "ticker": tk, "n": len(ts), "wins": len(tw), "losses": len(ts) - len(tw),
             "wr": len(tw) / len(ts) if ts else 0.0,
+            "pf": min(ipf, 99.0), "rr": min(irr, 99.0),
             "usd": sum(x.get("usd", x["pips"]) for x in ts),
             "pips": sum(x["pips"] for x in ts),
         })
@@ -277,6 +309,7 @@ def summarise(trades: list) -> dict:
         "wr": (len(wins) / len(counted)) if counted else 0.0,
         "pips": sum(t["pips"] for t in counted),
         "usd": sum(t.get("usd", t["pips"]) for t in counted),
+        "pf": min(pf, 99.0), "rr": min(rr, 99.0),
         "days": days, "curve": curve, "instruments": instruments,
         "skipped": len(trades) - len(counted),
     }
@@ -413,15 +446,22 @@ def render_card(title: str, subtitle: str, s: dict, extra_footer: str = "") -> s
                 trades.append(trade_line(t, i))
             while len(trades) % 2:
                 trades.append('<span class="tr"></span>')
+            d_pf = "up" if d["pf"] > 1 else "down"
+            d_rr = "up" if d["rr"] > 1 else "down"
             rows.append(
                 f'<div class="day"><h3>📅 {label} '
-                f'<span class="{wr_col}">勝率 {d["wr"]:.0%} '
-                f'(${d["usd"]:+,.0f})</span></h3>'
+                f'<span class="{wr_col}">WR {d["wr"]:.0%}</span> '
+                f'<span class="{d_pf}">PF {d["pf"]:.2f}</span> '
+                f'<span class="{d_rr}">RR {d["rr"]:.2f}</span> '
+                f'<span class="{"up" if d["usd"] >= 0 else "down"}">'
+                f'${d["usd"]:+,.0f}</span></h3>'
                 f'{"".join(trades)}</div>')
         days_html = "".join(rows)
 
     wr_col = "up" if s["wr"] >= 0.5 else "down"
     pips_col = "up" if s["usd"] >= 0 else "down"
+    pf_col = "up" if s["pf"] > 1 else "down"
+    rr_col = "up" if s["rr"] > 1 else "down"
     headline = (f'{s["wins"]} 贏 {s["losses"]} 輸')
     if s["skipped"]:
         headline += f'（已無視 {s["skipped"]} 單無成交）'
@@ -430,9 +470,10 @@ def render_card(title: str, subtitle: str, s: dict, extra_footer: str = "") -> s
     for a in s.get("instruments", []):
         cls = "up" if a["usd"] >= 0 else "down"
         inst_rows.append(
-            f'<span class="tr"><b>{a["ticker"]}</b> · {a["n"]} 單 · '
-            f'WR {a["wr"]:.0%} · {a["wins"]}勝{a["losses"]}負 · '
-            f'{a["pips"]:+,.0f} 點 · <b class="{cls}">${a["usd"]:+,.0f}</b></span>')
+            f'<span class="tr"><b>{a["ticker"]}</b> · {a["n"]}單 · '
+            f'WR {a["wr"]:.0%} · PF {a["pf"]:.2f} · RR {a["rr"]:.2f} · '
+            f'{a["wins"]}勝{a["losses"]}負 · {a["pips"]:+,.0f}點 · '
+            f'<b class="{cls}">${a["usd"]:+,.0f}</b></span>')
     while len(inst_rows) % 2:
         inst_rows.append('<span class="tr"></span>')
     instrument_rows = "".join(inst_rows)
@@ -453,7 +494,9 @@ def render_card(title: str, subtitle: str, s: dict, extra_footer: str = "") -> s
 
 <div class="card">
   <h2 style="margin-bottom:8px">【本週總結】<span class="pill">{s['n']} 單</span>
-    <span class="pill {wr_col}">勝率 {s['wr']:.0%}</span>
+    <span class="pill {wr_col}">WR {s['wr']:.0%}</span>
+    <span class="pill {pf_col}">PF {s['pf']:.2f}</span>
+    <span class="pill {rr_col}">RR {s['rr']:.2f}</span>
     <span class="pill {pips_col}">合計 ${s['usd']:+,.0f}</span></h2>
   <div class="row" style="margin-top:6px">
     <div style="font-size:30px">🏆</div>
@@ -461,7 +504,7 @@ def render_card(title: str, subtitle: str, s: dict, extra_footer: str = "") -> s
       <div class="big" style="font-size:24px">本週 {s['n']} 單（做多 {s['longs']}，做空 {s['shorts']}）|
         <b class="{wr_col}">{headline}</b>| 勝率 <b class="{wr_col}">{s['wr']:.0%}</b> |
         合計 <b class="{pips_col}">${s['usd']:+,.0f}</b></div>
-      <div class="legend">🎯 勝率　💰 合計真實美元（已計合約乘數 × 倉位）</div>
+      <div class="legend">🎯 WR 勝率　📊 PF 盈虧比　⚖ RR 賺蝕比　💰 合計真實美元（已計合約乘數 × 倉位）</div>
     </div>
   </div>
 </div>
@@ -494,12 +537,16 @@ def render_arena_card(s: dict, standings: list, title: str, subtitle: str) -> st
             f'<td class="{"up" if a.get("lv_delta", 0) > 0 else ("down" if a.get("lv_delta", 0) < 0 else "")}">'
             f'{a.get("lv_delta", 0):+d}</td><td>{a["n"]}</td>'
             f'<td class="{"up" if a["usd"] >= 0 else "down"}">${a["usd"]:+,.0f}</td>'
+            f'<td class="{"up" if a["wr"] >= 0.5 else "down"}">{a["wr"]:.0%}</td>'
+            f'<td class="{"up" if a["pf"] > 1 else "down"}">{a["pf"]:.2f}</td>'
+            f'<td class="{"up" if a["rr"] > 1 else "down"}">{a["rr"]:.2f}</td>'
             f'<td class="{"up" if a["wins"] >= a["losses"] else "down"}">'
             f'{a["wins"]}勝{a["losses"]}輸</td></tr>')
     table = ("<table style='width:100%;border-collapse:collapse;font-size:15px'>"
              "<tr style='color:#f0cb6a'><th style='text-align:left'>#</th>"
              "<th style='text-align:left'>agent</th><th>lv</th><th>本週±lv</th>"
-             "<th>n</th><th>美元</th><th>勝負</th></tr>" + "".join(rows) + "</table>")
+             "<th>n</th><th>美元</th><th>WR</th><th>PF</th><th>RR</th>"
+             "<th>勝負</th></tr>" + "".join(rows) + "</table>")
     return f"""<!doctype html><html><head><meta charset="utf-8">
 <style>{CSS}
 table td {{ padding: 4px 6px; border-bottom: 1px solid rgba(224,178,76,.18); }}
@@ -514,6 +561,8 @@ table td {{ padding: 4px 6px; border-bottom: 1px solid rgba(224,178,76,.18); }}
   <div class="big">15 個 agent · 總成交 <b>{s['n']}</b> 單 ·
     <b class="{"up" if s["wins"] >= s["losses"] else "down"}">{s['wins']} 贏 {s['losses']} 輸</b> ·
     勝率 <b class="{"up" if s["wr"] >= 0.5 else "down"}">{s['wr']:.0%}</b> ·
+    PF <b class="{"up" if s["pf"] > 1 else "down"}">{s['pf']:.2f}</b> ·
+    RR <b class="{"up" if s["rr"] > 1 else "down"}">{s['rr']:.2f}</b> ·
     合計 <b class="{"up" if s["usd"] >= 0 else "down"}">${s['usd']:+,.0f}</b></div>
   <div class="legend">（真實美元：價格變動 × 合約乘數 × 倉位，方向已計入）</div>
 </div>
@@ -725,7 +774,8 @@ def main() -> int:
                     pass
             standings.append({"agent": display, "slug": slug, "level": level,
                               "lv_delta": lv_delta, "n": a["n"], "wins": a["wins"],
-                              "losses": a["losses"], "usd": a["usd"], "pips": a["pips"]})
+                              "losses": a["losses"], "usd": a["usd"], "pips": a["pips"],
+                              "pf": a["pf"], "rr": a["rr"], "wr": a["wr"]})
         standings.sort(key=lambda x: (-x["level"], -x["usd"]))
         title = "YW Arena 競賽場週榜"
         subtitle = f"本週總結（{label}）· 15 個策略 agent"

diff --git a/automation/scripts/arena_report.py b/automation/scripts/arena_report.py
@@ -80,17 +80,22 @@ def render(board: dict, taunts: list) -> str:
                  "目標：日日 +1 level。")
     lines.append(f"（成績 = 已結算嗰日 {day}；最後一欄係進行中嗰日）")
     lines.append("")
-    lines.append("| # | agent | lv | 昨日結果 | n | PF | WR | 昨日 P&L | equity | 今日進行中 |")
-    lines.append("|---:|---|--:|---|--:|--:|--:|--:|--:|--:|")
+    lines.append("| # | agent | lv | 昨日結果 | n | WR | PF | RR | 昨日 P&L | equity | 今日進行中 |")
+    lines.append("|---:|---|--:|---|--:|--:|--:|--:|--:|--:|---|")
     for r in rows:
         m = r["today"]
         pf = "—" if m["PF"] is None else f"{m['PF']:.2f}"
+        rr = "—" if m.get("RR") is None else f"{m['RR']:.2f}"
+        wr_col = "up" if m["WR"] >= 0.5 else "down"
+        pf_col = "up" if (m["PF"] or 0) > 1 else "down"
+        rr_col = "up" if (m.get("RR") or 0) > 1 else "down"
         live = r.get("live") or {}
         live_txt = "—" if not live.get("n") else (
             f"{live['n']} 單 · ${live['pnl_usd']:+,.0f}")
         lines.append(
             f"| {r['rank']} | {r['agent']} | {r['level']} | {r['action']} | "
-            f"{m['n']} | {pf} | {m['WR']:.0%} | ${m['pnl_usd']:+,.0f} | "
+            f"{m['n']} | {wr_col} {m['WR']:.0%} | {pf_col} {pf} | {rr_col} {rr} | "
+            f"${m['pnl_usd']:+,.0f} | "
             f"${r['equity_usd']:+,.0f} | {live_txt} |")
     leaders = [r for r in rows if r["action"] == "promote"]
     if leaders:

diff --git a/automation/scripts/arena.py b/automation/scripts/arena.py
@@ -734,14 +734,15 @@ def main() -> int:
     md = [f"# Arena — {board_day}", "",
           "Fifteen strategy agents, each on its own virtual account. "
           "Paper only: no broker order is ever placed.", "",
-          "| # | agent | lv | day action | n | PF | WR | day P&L | equity | open |",
-          "|---:|---|--:|---|--:|--:|--:|--:|--:|--:|"]
+          "| # | agent | lv | day action | n | WR | PF | RR | day P&L | equity | open |",
+          "|---:|---|--:|---|--:|--:|--:|--:|--:|--:|--:|"]
     for row in board:
         m = row["today"]
         pf = "—" if m["PF"] is None else f"{m['PF']:.2f}"
+        rr = "—" if m.get("RR") is None else f"{m['RR']:.2f}"
         md.append(
             f"| {row['rank']} | **{row['agent']}** | {row['level']} | "
-            f"{row['action']} | {m['n']} | {pf} | {m['WR']:.0%} | "
+            f"{row['action']} | {m['n']} | {m['WR']:.0%} | {pf} | {rr} | "
             f"${m['pnl_usd']:+,.2f} | ${row['equity_usd']:+,.2f} | "
             f"{row['open_positions']} |")
     md += ["", "## Why each level moved", ""]
